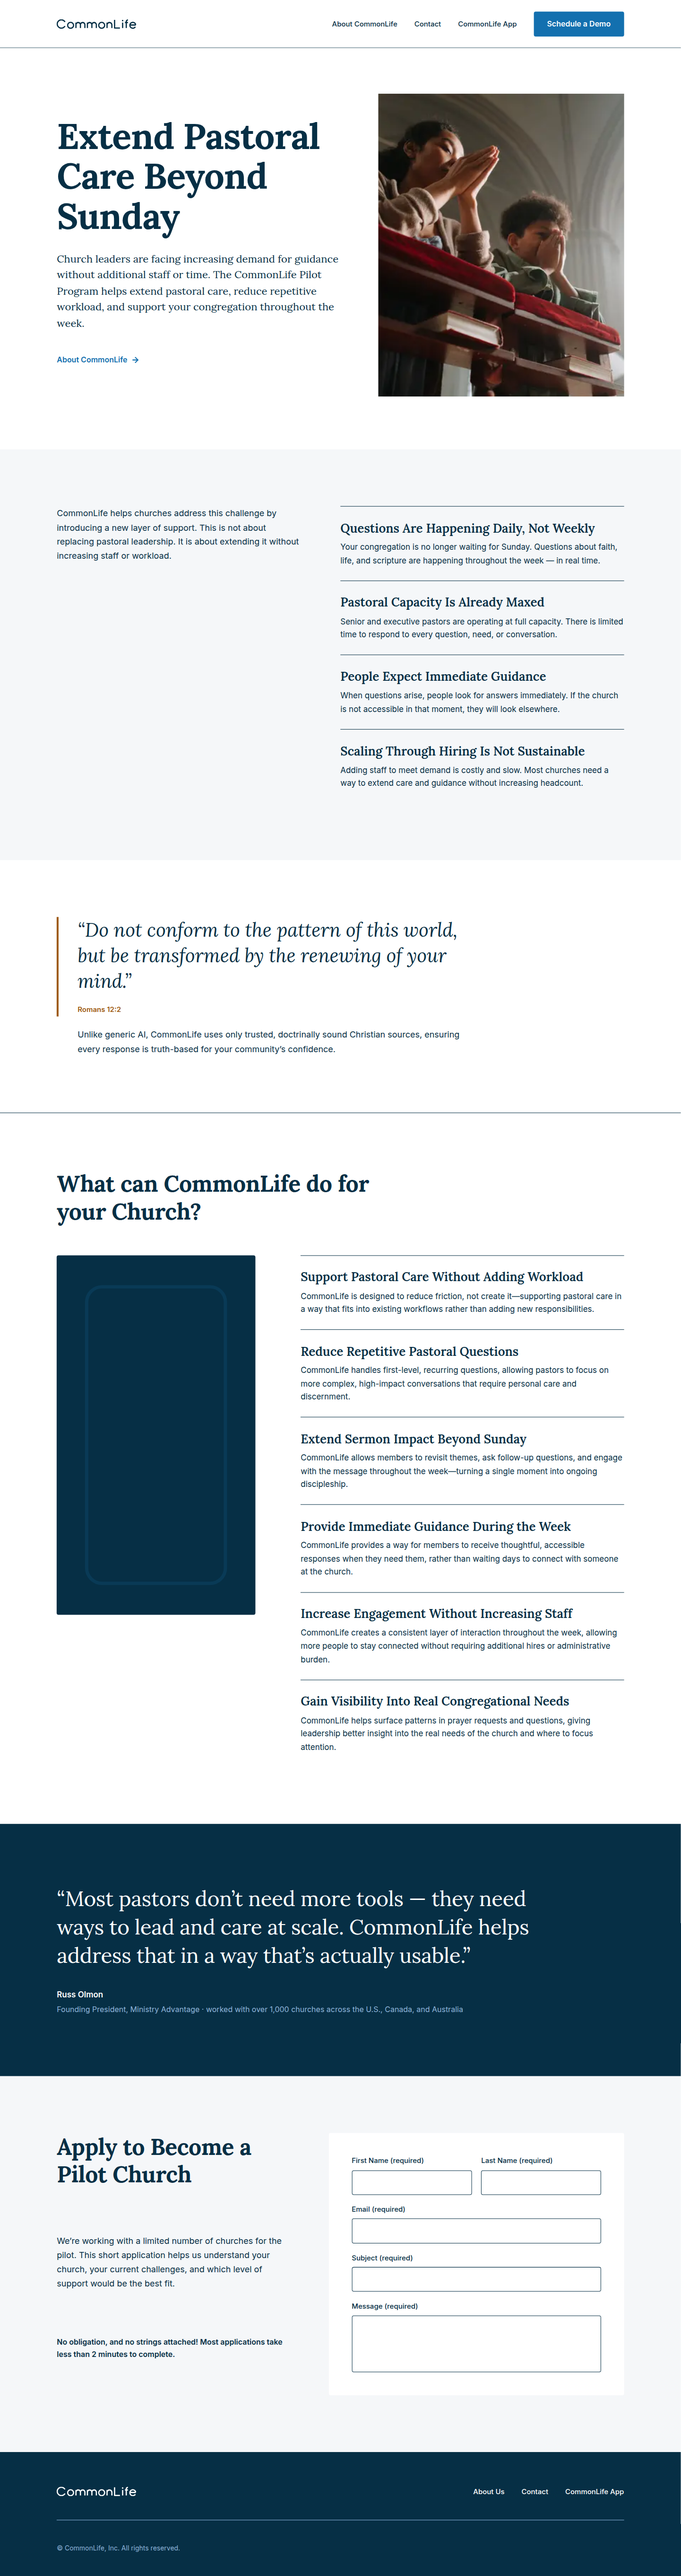
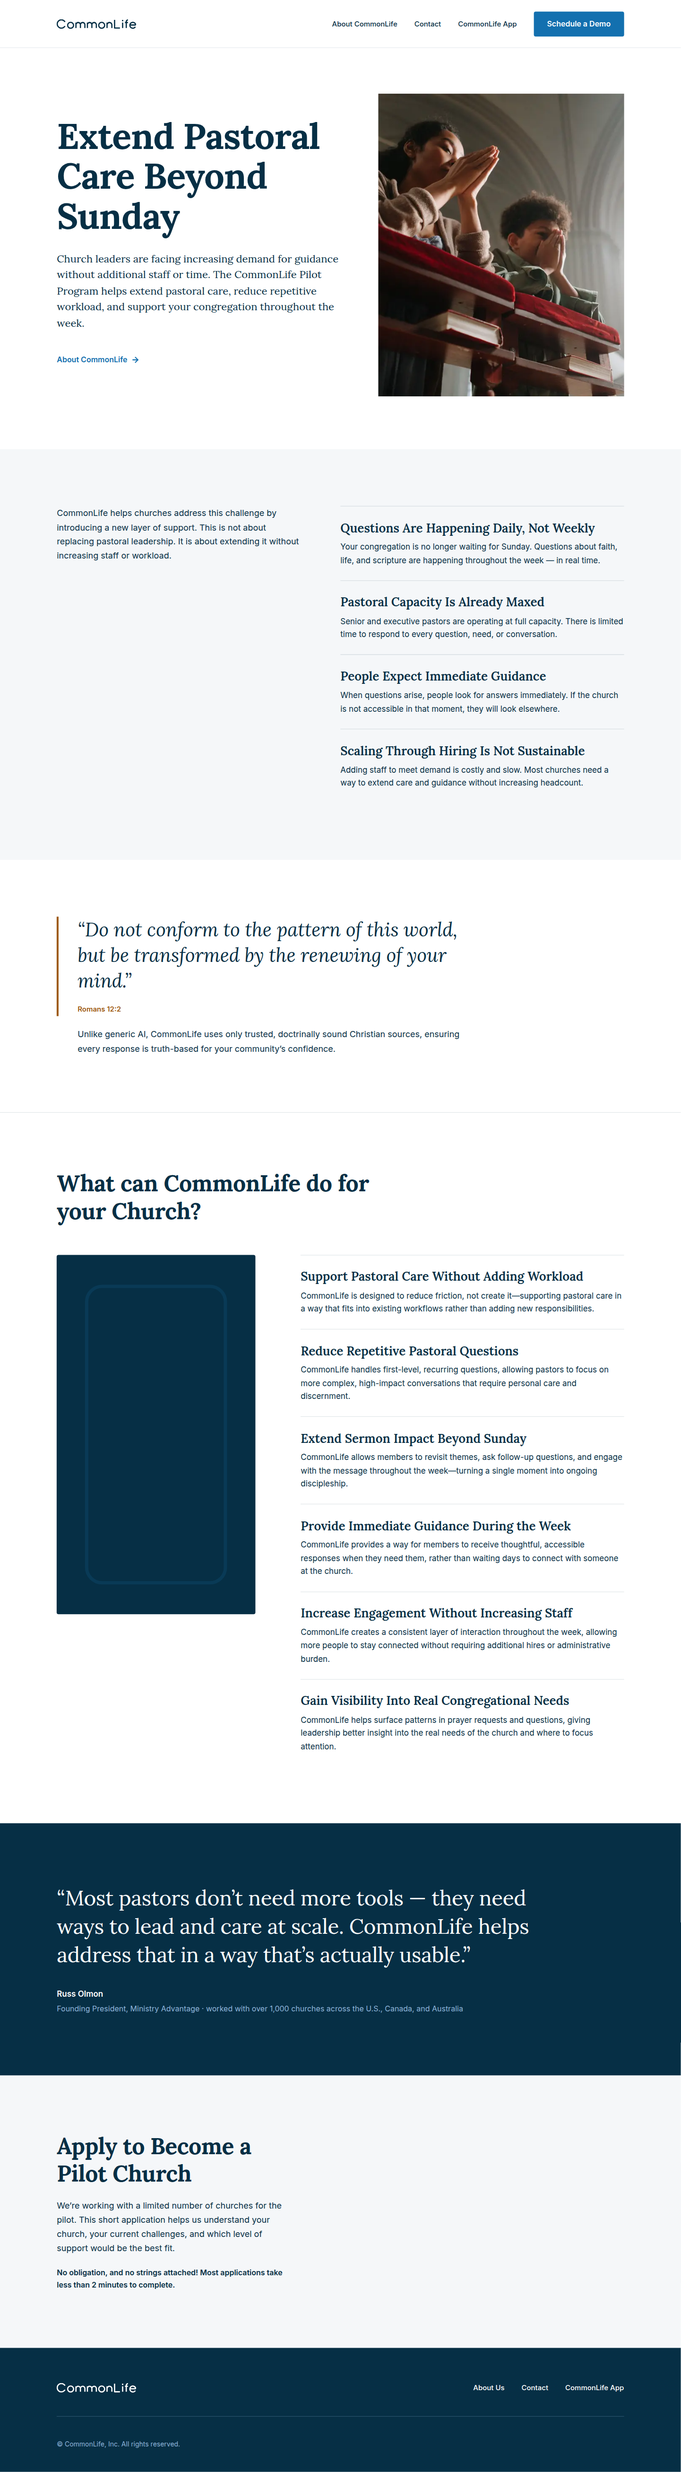
Apply the Direction A design review fixes.
Drop the pilot form until a submit label exists, add a 768px tablet hero so the face stays in frame, and soften hairlines to the requested opacities.

diff --git a/app/page.tsx b/app/page.tsx
@@ -4,7 +4,6 @@ import Link from "next/link";
 import Footer from "@/components/Footer";
 import IndexRow from "@/components/IndexRow";
 import Navbar from "@/components/Navbar";
-import PilotForm from "@/components/PilotForm";
 import { marketingRoutes } from "@/lib/site-links";
 
 export const metadata: Metadata = {
@@ -83,10 +82,10 @@ export default function HomePage() {
       <main id="main">
         <section className="bg-clWhite" aria-labelledby="hero-heading">
           <div className={`${shell} flex flex-col gap-6 pb-14 pt-6 min-[1100px]:flex-row min-[1100px]:items-center min-[1100px]:gap-12 min-[1100px]:pb-28 min-[1100px]:pt-24 min-[1280px]:gap-20`}>
-            <div className="order-2 flex flex-col gap-6 min-[1100px]:order-1 min-[1100px]:w-[600px] min-[1100px]:shrink-0 min-[1100px]:gap-8">
+            <div className="order-2 flex w-full max-w-[720px] flex-col gap-6 min-[1100px]:order-1 min-[1100px]:w-[600px] min-[1100px]:max-w-none min-[1100px]:shrink-0 min-[1100px]:gap-8">
               <h1
                 id="hero-heading"
-                className="font-lora text-[40px] font-bold leading-[46px] tracking-[-0.015em] text-clDeepOcean min-[1100px]:text-[76px] min-[1100px]:leading-[84px]"
+                className="font-lora text-[40px] font-bold leading-[46px] tracking-[-0.015em] text-clDeepOcean min-[768px]:text-[56px] min-[768px]:leading-[64px] min-[1100px]:text-[76px] min-[1100px]:leading-[84px]"
               >
                 Extend Pastoral Care Beyond Sunday
               </h1>
@@ -104,14 +103,14 @@ export default function HomePage() {
                 <img src="/homepage/icon-arrow-right.svg" alt="" width={18} height={18} />
               </Link>
             </div>
-            <div className="relative order-1 h-[340px] w-full min-[1100px]:order-2 min-[1100px]:h-[640px] min-[1100px]:min-w-0 min-[1100px]:flex-1">
+            <div className="relative order-1 h-[340px] w-full min-[768px]:h-[480px] min-[1100px]:order-2 min-[1100px]:h-[640px] min-[1100px]:min-w-0 min-[1100px]:flex-1">
               <Image
                 src="/homepage/photo-mother-and-son-church-pew.jpeg"
                 alt="Mother and son in a church pew"
                 fill
                 priority
                 sizes="(min-width: 1100px) 520px, 100vw"
-                className="object-cover"
+                className="object-cover object-[center_18%] min-[1100px]:object-center"
               />
             </div>
           </div>
@@ -136,7 +135,7 @@ export default function HomePage() {
           <div className={`${shell} py-16 min-[1100px]:py-20 min-[1440px]:py-[120px]`}>
             <div className="grid grid-cols-[4px_minmax(0,1fr)] gap-x-6 gap-y-8 min-[1100px]:max-w-[900px] min-[1100px]:gap-x-10 min-[1100px]:gap-y-6">
               <div
-                className="col-start-1 row-start-1 h-[136px] w-1 bg-clAmber min-[1100px]:h-[210px]"
+                className="col-start-1 row-start-1 h-[150px] w-1 bg-clAmber min-[1100px]:h-[210px]"
                 aria-hidden="true"
               />
               <div className="col-start-2 row-start-1 flex flex-col gap-6">
@@ -158,7 +157,7 @@ export default function HomePage() {
           </div>
         </section>
 
-        <section className="border-t border-clDeepOcean bg-clWhite" aria-labelledby="product-heading">
+        <section className="border-t border-clDeepOcean/14 bg-clWhite" aria-labelledby="product-heading">
           <div className={`${shell} py-16 min-[1100px]:py-20 min-[1440px]:py-[120px]`}>
             <h2
               id="product-heading"
@@ -168,7 +167,7 @@ export default function HomePage() {
             </h2>
             <div className="mt-10 flex flex-col gap-10 min-[1100px]:mt-16 min-[1100px]:flex-row min-[1100px]:items-start min-[1100px]:gap-16 min-[1280px]:gap-24">
               <div className="flex h-[460px] w-full shrink-0 items-center justify-center rounded-[4px] bg-clDeepOcean min-[1100px]:h-[760px] min-[1100px]:w-[420px]">
-                <div className="relative h-[400px] w-[190px] overflow-hidden rounded-[28px] border-8 border-clOceanCard min-[1100px]:h-[634px] min-[1100px]:w-[300px] min-[1100px]:rounded-[36px]">
+                <div className="relative h-[400px] w-[190px] overflow-hidden rounded-[24px] border-6 border-clOceanCard min-[1100px]:h-[634px] min-[1100px]:w-[300px] min-[1100px]:rounded-[36px] min-[1100px]:border-8">
                   <Image
                     src="/homepage/app-screen-sermon-on-forgiveness.jpeg"
                     alt="Sermon on forgiveness"
@@ -208,24 +207,23 @@ export default function HomePage() {
         </section>
 
         <section className="bg-clPaper" aria-labelledby="pilot-heading">
-          <div className={`${shell} flex flex-col gap-8 pb-[68px] pt-[72px] min-[1100px]:grid min-[1100px]:grid-cols-[480px_minmax(0,1fr)] min-[1100px]:gap-x-16 min-[1100px]:gap-y-6 min-[1100px]:py-20 min-[1280px]:gap-x-24 min-[1440px]:py-[120px]`}>
-            <h2
-              id="pilot-heading"
-              className="font-lora text-[30px] font-bold leading-[38px] tracking-[-0.01em] text-clDeepOcean min-[1100px]:col-start-1 min-[1100px]:text-[48px] min-[1100px]:leading-[58px]"
-            >
-              Apply to Become a Pilot Church
-            </h2>
-            <p className="font-inter text-base leading-[26px] text-clDeepOcean min-[1100px]:col-start-1 min-[1100px]:text-[18px] min-[1100px]:leading-[30px]">
-              We’re working with a limited number of churches for the pilot. This short application
-              helps us understand your church, your current challenges, and which level of support
-              would be the best fit.
-            </p>
-            <p className="order-last font-inter text-[15px] font-semibold leading-6 text-clDeepOcean min-[1100px]:order-none min-[1100px]:col-start-1 min-[1100px]:text-base min-[1100px]:leading-[26px]">
-              No obligation, and no strings attached! Most applications take less than 2 minutes to
-              complete.
-            </p>
-            <div className="min-[1100px]:col-start-2 min-[1100px]:row-span-3 min-[1100px]:row-start-1">
-              <PilotForm />
+          <div className={`${shell} py-16 min-[1100px]:py-20 min-[1440px]:py-[120px]`}>
+            <div className="flex max-w-[480px] flex-col gap-6">
+              <h2
+                id="pilot-heading"
+                className="font-lora text-[30px] font-bold leading-[38px] tracking-[-0.01em] text-clDeepOcean min-[1100px]:text-[48px] min-[1100px]:leading-[58px]"
+              >
+                Apply to Become a Pilot Church
+              </h2>
+              <p className="font-inter text-base leading-[26px] text-clDeepOcean min-[1100px]:text-[18px] min-[1100px]:leading-[30px]">
+                We’re working with a limited number of churches for the pilot. This short
+                application helps us understand your church, your current challenges, and which
+                level of support would be the best fit.
+              </p>
+              <p className="font-inter text-[15px] font-semibold leading-6 text-clDeepOcean min-[1100px]:text-base min-[1100px]:leading-[26px]">
+                No obligation, and no strings attached! Most applications take less than 2 minutes
+                to complete.
+              </p>
             </div>
           </div>
         </section>

diff --git a/components/Footer.tsx b/components/Footer.tsx
@@ -27,7 +27,7 @@ export default function Footer() {
           </Link>
 
           <nav aria-label="Footer">
-            <ul className="flex flex-col gap-5 min-[1100px]:flex-row min-[1100px]:items-center min-[1100px]:gap-9">
+            <ul className="flex flex-col gap-[14px] min-[1100px]:flex-row min-[1100px]:items-center min-[1100px]:gap-9">
               {footerLinks.map((link) => (
                 <li key={link.label}>
                   {link.external ? (
@@ -51,7 +51,7 @@ export default function Footer() {
           </nav>
         </div>
 
-        <div className="h-px w-full bg-clSky" role="separator" />
+        <div className="h-px w-full bg-clSky/30" role="separator" />
 
         <p className="font-inter text-[13px] leading-normal text-clSky min-[1100px]:text-sm">
           © CommonLife, Inc. All rights reserved.

diff --git a/components/Navbar.tsx b/components/Navbar.tsx
@@ -40,8 +40,8 @@ export default function Navbar() {
   }, [menuOpen]);
 
   return (
-    <header className="border-b border-clDeepOcean bg-clWhite text-clDeepOcean">
-      <div className="mx-auto flex w-full max-w-[1440px] items-center justify-between px-6 py-[18px] min-[1100px]:px-10 min-[1100px]:py-6 min-[1440px]:px-[120px]">
+    <header className="border-b border-clDeepOcean/14 bg-clWhite text-clDeepOcean">
+      <div className="mx-auto flex h-[60px] w-full max-w-[1440px] items-center justify-between px-6 min-[1100px]:h-auto min-[1100px]:px-10 min-[1100px]:py-6 min-[1440px]:px-[120px]">
         <Link
           href={marketingRoutes.home}
           className={`rounded-sm ${focusLight}`}

diff --git a/components/IndexRow.tsx b/components/IndexRow.tsx
@@ -8,7 +8,7 @@ export default function IndexRow({ title, body, heading }: IndexRowProps) {
   const Title = heading;
 
   return (
-    <article className="border-t border-clDeepOcean py-7">
+    <article className="border-t border-clDeepOcean/14 py-7">
       <Title className="font-lora text-[26px] font-semibold leading-[34px] text-clDeepOcean">
         {title}
       </Title>

diff --git a/app/globals.css b/app/globals.css
@@ -3,7 +3,7 @@
 
 :root {
   --background: #ffffff;
-  --foreground: #101832;
+  --foreground: #062f45;
 }
 
 @layer base {
